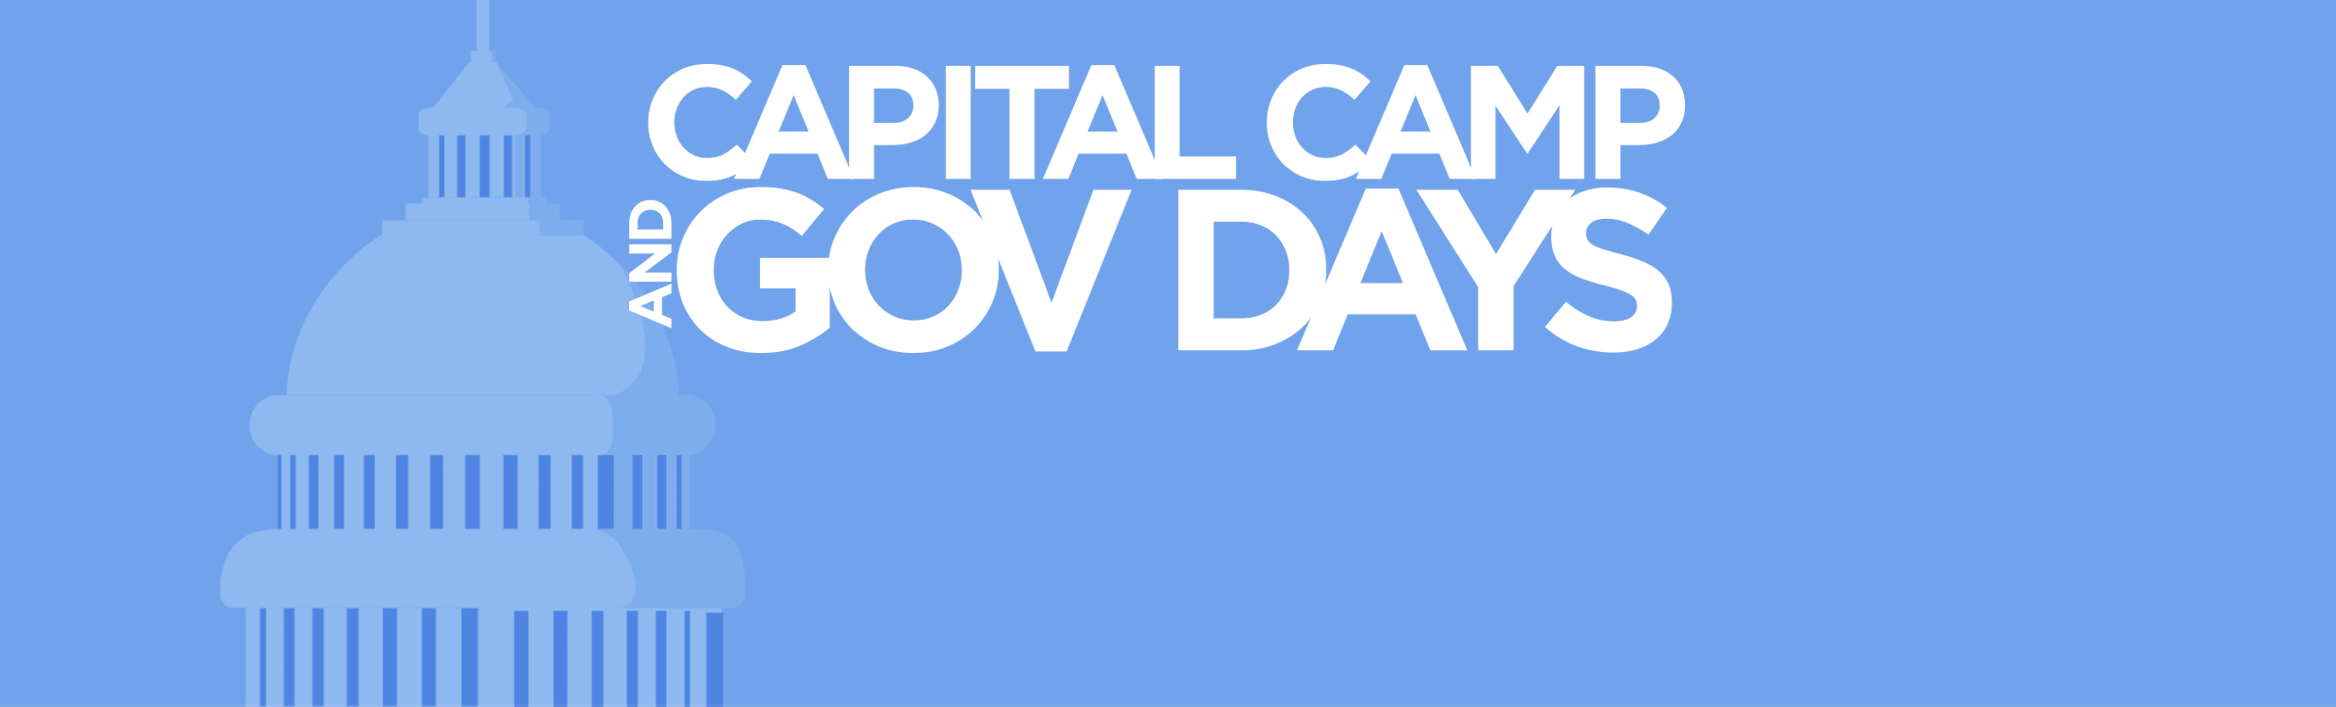
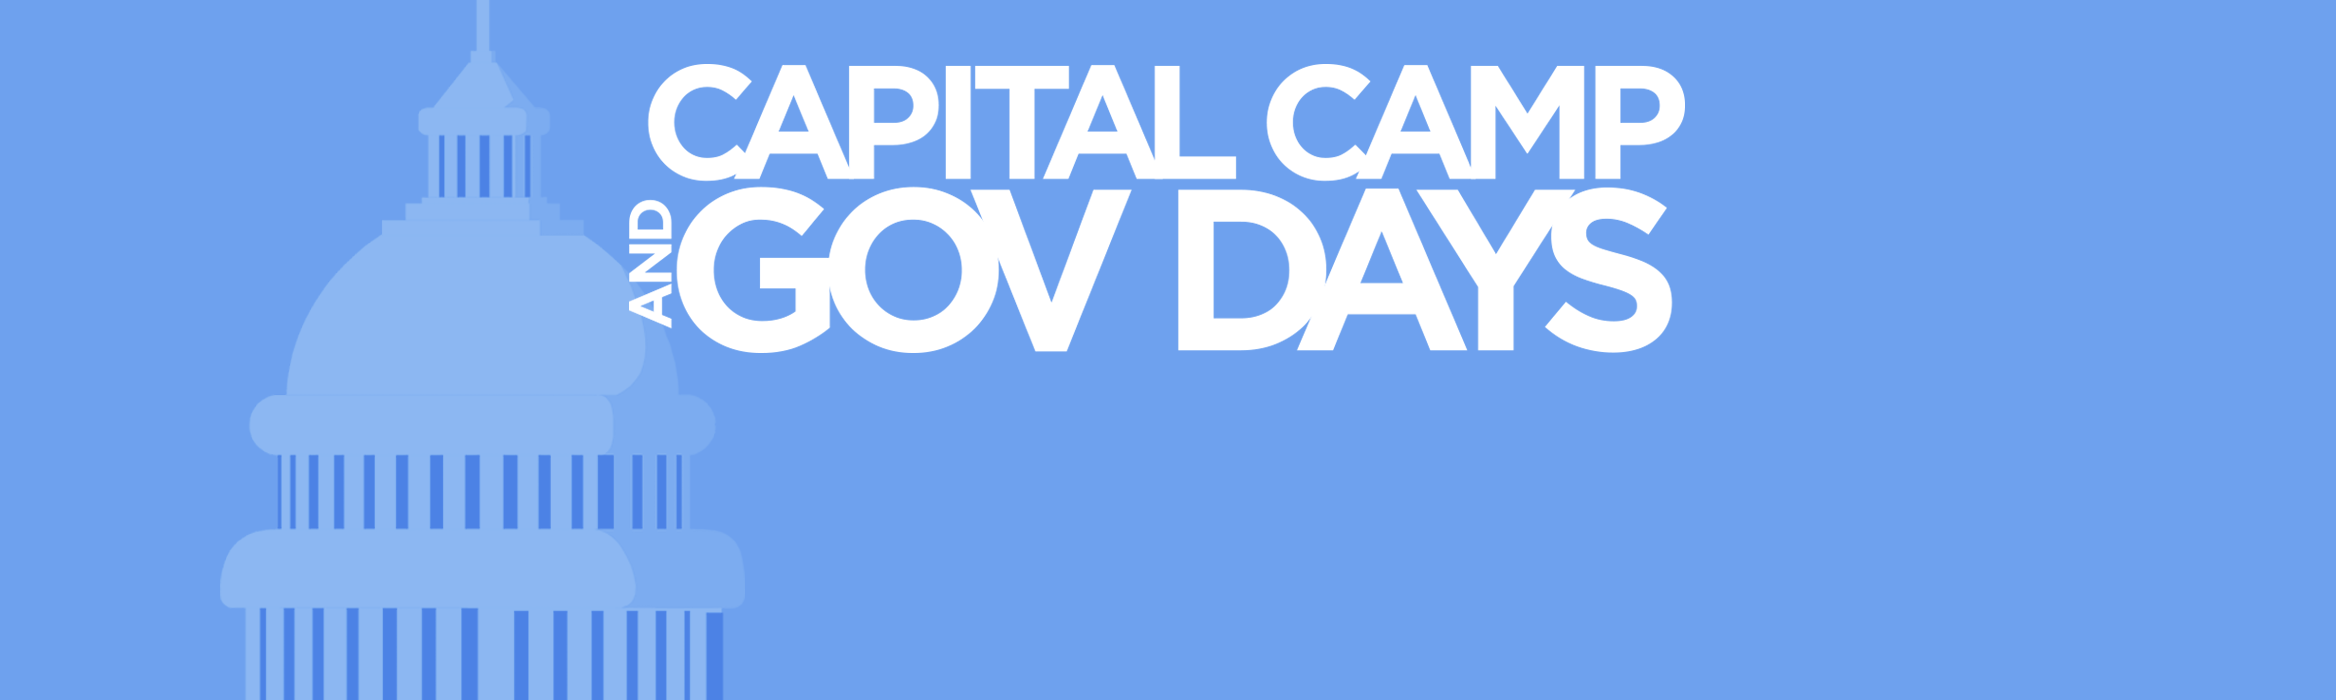
add bg image with no text for inner pages, misc styling

diff --git a/cod-7.x-1.0-beta1/sites/all/themes/ccgd/css/ccgd.css b/cod-7.x-1.0-beta1/sites/all/themes/ccgd/css/ccgd.css
@@ -44,6 +44,17 @@ input.form-submit:hover, a.button:hover {
 #main #content { background: #fff; display: inline-block; width: 100%; }
 #main #content .panel-panel.header { display: none; }
 .region-header { margin: 5px 0; }
+.unit .inside, .lastUnit .inside { margin: 0 0.5em 0.5em 1em; }
+
+/* -- Lists -- */
+.item-list ul li { padding: 0.2em 0 0;}
+
+/* -- Tabs -- */
+.tabs {}
+ul.primary { border-bottom: 1px solid #ccc; }
+.tabs ul.tabs.primary li {}
+.tabs ul.primary li a { padding: 3px 12px 6px; border-radius: 0; border-top: none; border-left: none; border-right: none; }
+.tabs ul.primary li.active a { border-top: 1px solid #ccc; border-left: 1px solid #ccc; border-right: 1px solid #ccc; }
 
 /* -- Body -- */
 .field-name-submitted-by, .meta.submitted { font-size: 1em; font-style: italic; padding-bottom: 10px; }
@@ -86,6 +97,10 @@ a#menu-toggle:after { top: 14px; right: 14px; }
 .front .node-event form label { width: 100%; float: none; }
 .front .node-event form .description { float: none; font-style: italic; }
 
+/* -- Twitter Feed -- */
+.twitter-widget { background-color: #eeefef; padding: 20px; }
+.twitter-timeline { width: 100% !important; }
+
 /* -- Panels -- */
 
 .panel-panel.unit { width: 100%; }
@@ -117,7 +132,8 @@ visibility: hidden;
 @media all and (min-width: 560px) and (max-width: 850px) {
   
   #messages { position: absolute; width: 100%; }
-  #main-wrapper { padding-top: 170px; background: url(../images/ccgd-banner-home-s.png) #70a3eb no-repeat 50% top;}
+  #main-wrapper { padding-top: 170px; background: url(../images/ccgd-banner-s.png) #70a3eb no-repeat 50% top;}
+  .front #main-wrapper { padding-top: 170px; background: url(../images/ccgd-banner-home-s.png) #70a3eb no-repeat 50% top;}
   #header { background: #fff; }
   #logo { width: auto; }
   #main-menu #main-menu-links li a { height: 64px; line-height: 64px; padding: 0; }
@@ -125,12 +141,14 @@ visibility: hidden;
   .front .node-event form input.form-text,
   .front .node-event form label { width: 50%; float: left; margin-right: 20px; }
   .front .node-event form .form-type-textfield { width: 70%; float: left; }
+  .unit .inside, .lastUnit .inside { margin: 0 1em 1em 1em; }
 }
 
 @media all and (min-width: 851px) and (max-width: 1100px) {
   
   #messages { position: absolute; width: 100%; }
-  #main-wrapper { padding-top: 280px; background: url(../images/ccgd-banner-home-m.png) #70a3eb no-repeat 50% top; }
+  #main-wrapper { padding-top: 280px; background: url(../images/ccgd-banner-m.png) #70a3eb no-repeat 50% top; }
+  .front #main-wrapper { padding-top: 280px; background: url(../images/ccgd-banner-home-m.png) #70a3eb no-repeat 50% top; }
   #block-system-main .left { width: 63%; }
   #block-system-main .right { width: 37%; }
   #header { background: #fff; }
@@ -142,12 +160,14 @@ visibility: hidden;
   .front .node-event form input.form-text,
   .front .node-event form label { width: 50%; float: left; margin-right: 20px; }
   .front .node-event form .form-type-textfield { width: 70%; float: left; }
+  .unit .inside, .lastUnit .inside { margin: 0 1em 1em 1em; }
 }
 
 @media all and (min-width: 1101px) {
   
   #messages #messages { position: absolute; width: 100%; }
-  #main-wrapper { padding-top: 390px; background: url(../images/ccgd-banner-home-l.png) #70a3eb no-repeat 50% top; }
+  #main-wrapper { padding-top: 390px; background: url(../images/ccgd-banner-l.png) #70a3eb no-repeat 50% top; }
+  .front #main-wrapper { padding-top: 390px; background: url(../images/ccgd-banner-home-l.png) #70a3eb no-repeat 50% top; }
   #block-system-main .left { width: 63%; }
   #block-system-main .right { width: 37%; }
   #header { background: #fff; }
@@ -158,6 +178,7 @@ visibility: hidden;
   .front .node-event form input.form-text,
   .front .node-event form label { width: 50%; float: left; margin-right: 20px; }
   .front .node-event form .form-type-textfield { width: 70%; float: left; }
+  .unit .inside, .lastUnit .inside { margin: 0 1em 1em 1em; }
 }
 
 /* -- Mobile menu -- */
